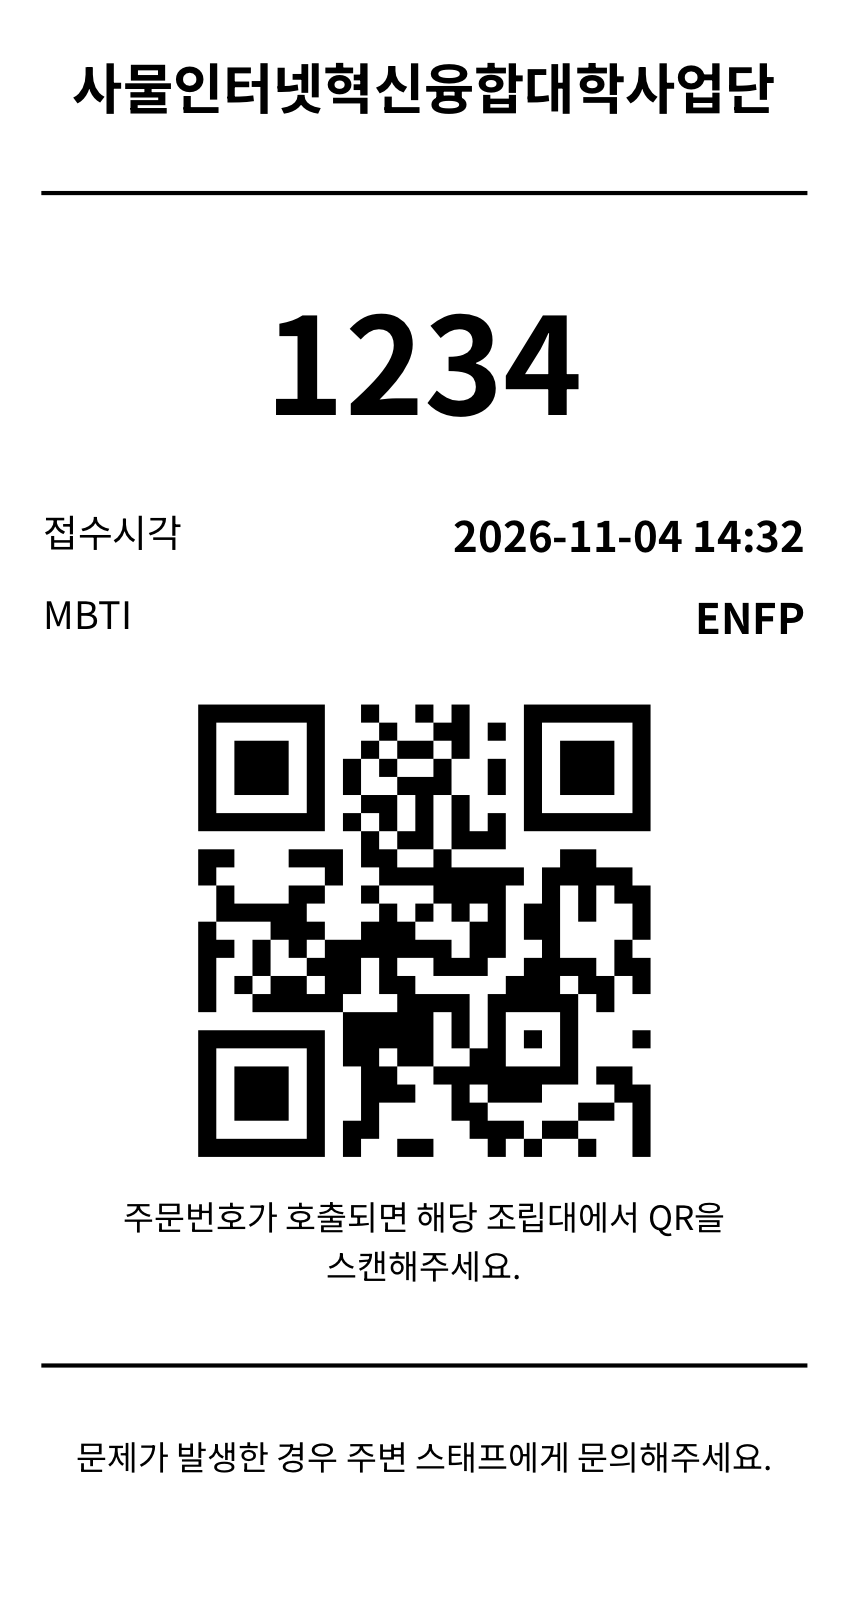
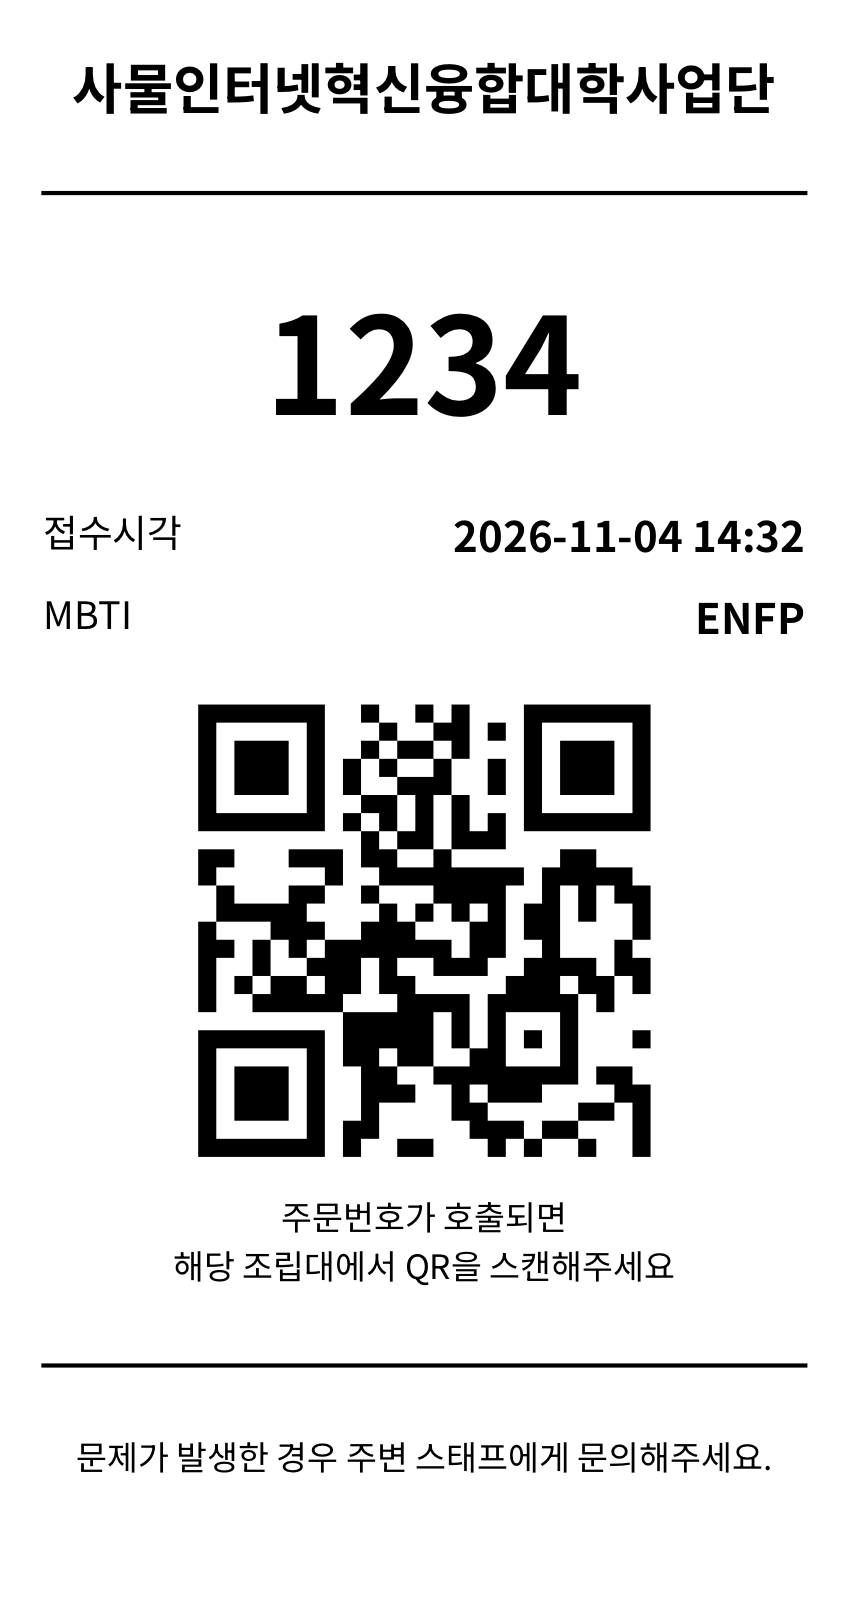
영수증 QR 안내 문구 줄바꿈 위치 수정

Changed region(s): [[0.1524, 0.75, 0.8535, 0.8125]]

diff --git a/lib/services/receipt_printer_service.dart b/lib/services/receipt_printer_service.dart
@@ -240,7 +240,7 @@ class ReceiptPrinterService {
                 pw.SizedBox(height: 8),
                 pw.Center(
                   child: pw.Text(
-                    '주문번호가 호출되면 해당 조립대에서 QR을 스캔해주세요.',
+                    '주문번호가 호출되면\n해당 조립대에서 QR을 스캔해주세요',
                     textAlign: pw.TextAlign.center,
                     style: pw.TextStyle(
                       font: regularFont,
